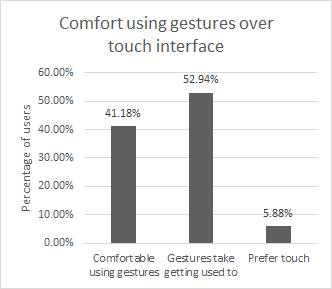
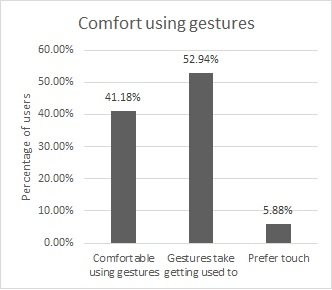
Final Draft tweak
Changed one graph, fixed a couple of typos

diff --git a/project-report-latex/report.tex b/project-report-latex/report.tex
@@ -1,4 +1,4 @@
-%*************************************************************************
+%*************************************************************************
 
 % Note that the a4paper option is mainly intended so that authors in
 % countries using A4 can easily print to A4 and see how their papers will
@@ -448,7 +448,7 @@ The prototype of the device involves the following:
 	\item Android Device
 \end{enumerate}
 
-Users can plug any of their devices into either one outlet or the other. Then, within the android application, they can toggle the power to each of the outlets individually, and become informed via graphical representation if the status of one of the outlets has changed.
+Users can plug any of their devices into either outlet. Then, within the android application, they can toggle the power to each of the outlets individually, and become informed via graphical representation if the status of one of the outlets has changed.
 
 For user interaction, we have decided on a multi-faceted approach. The novelty of the application comes from our gesture recognition system which allows the mobile device to register gestures even while the phone is asleep. This in turn toggles power to the devices.  Beyond this, we have also implemented widgets, which allows users to define their own interface on their home screens. For example, you can split half your home screen between two widgets for easy access to the functionality, even when not inside the app. Furthermore, we allow users to toggle devices in the traditional sense, using buttons inside the application itself. 
 
@@ -461,7 +461,7 @@ To begin with, we discuss the communications method used. To build our prototype
 \end{figure}
 
 
-In this section we give an overview of our Android application prototype, Sparky. We omit low-level implementation details in favour of providing a high-level overview of the interactions. In order to allow the mobile phone to communicate with the Spark Core, we have written a communications library. It is upon this library which the backbone of the application rests. Whenever an intent to toggle is registered, whether by gesture recognition or otherwise, a call is made to the library, which handles request and response to the physical devices. Since we have many UI elements indicating the status of the device (inside the app, multiple widgets), we use the observer pattern to handle notifying all listeners as to the status of the device. For the in-application and widget icons (see Figure \ref{widgetScreenshot}, we use minimalistic designs that represent the devices they are toggling. This removes clutter from and provides an intuitive idea of how to use the application. Figure \ref{workflow} shows the overall basic usage of the application.
+In this section we give an overview of our Android application prototype, Sparky. We omit low-level implementation details in favour of providing a high-level overview of the interactions. In order to allow the mobile phone to communicate with the Spark Core, we have written a communication library. It is upon this library which the backbone of the application rests. Whenever an intent to toggle is registered, whether by gesture recognition or otherwise, a call is made to the library, which handles request and response to the physical devices. Since we have many UI elements indicating the status of the device (inside the app, multiple widgets), we use the observer pattern to handle notifying all listeners as to the status of the device. For the in-application and widget icons (see Figure \ref{widgetScreenshot}, we use minimalistic designs that represent the devices they are toggling. This removes clutter from and provides an intuitive idea of how to use the application. Figure \ref{workflow} shows the overall basic usage of the application.
 
 \begin{figure}[!t]
 \centering
@@ -533,20 +533,20 @@ DTW allows some variance in gesture motion and speed when a person tries to repe
 
 \section{User Experience Tests}
 
-The application was tested by 17 users aged between 21-27, all of which consented for us to use the feedback we obtained from them. The participants of the testing consisted of mainly graduate students with a strong technical background. However, we also included several non-technical users as well.
+The application was tested by 17 users aged between 21-27, who consented for us to use the feedback we obtained from them. The participants of the testing consisted of mainly graduate students with a strong technical background. However, we also included several non-technical users as well.
 
 \subsection{Methodology}
 
 The participants tested the application individually and no more than two participants were in the testing room at a particular point in time. The participants were initially briefed about the overall idea of the application. The team demonstrated how to use the application first and explained how to perform the default gestures. Then the participants were given access to the mobile device on which the application is running. The participants tested the entire functionality of the application including changing the assigned gestures and creating their own custom gestures. There was no set time limit for the participants to use the application. Upon their stating that they have completed testing the application, they were directed to fill in an online feedback form. The questions on the feedback form were structured to get the users' rating on factors such as the intuitiveness of the application, their comfort using the default gestures, and their willingness/interest to adopt such a technology to control home appliances.
 \subsection{User Feedback}
 
-Users submitted their feedback and comments online. Users also provided their consent on the form before submitting their feedback.
+Users submitted their feedback and comments online. They also provided their consent on the form before submitting it.
 
 Some comments from the users are: ``Takes a bit of trial and error to figure out the default gestures. They seem pretty sensitive.'', ``The default gestures are good, but, take some time to adjust to the user's personal way of doing these gestures. So, even before using the default gestures, learning  these from the user might make this a bit easier.'',``Why does every single thing have to be internet connected nowadays. Don't track any usage data!'' etc. 
 
 \subsection{Inference}
 
-The application experience rating on a scale of 10 was found to have a mean of 8.58,  and median of 9. Figure \ref{gesturevstouch} shows the percentage of users who were comfortable using gestures instead of the traditional touch interface to control the application.  Although users rated the default gesture experience at a mean of 7.88 and median of 8, about 70\% of the users needed multiple attempts to get accustomed to the way the default gestures have been defined. This is attested to by the rating we received for the ease of figuring out the default gesture, with a mean of 7.5 and median of 8. Since the data obtained when a gesture is performed is reliant on orientation and the starting position at the time of doing the gesture, users needed practice before being comfortable. Once they learnt the default gestures, the comfort using them greatly increased. Figure \ref{customvsdefault} shows user feedback on their preference between using custom gestures and default gestures. The application's intuitiveness received a mean rating of 8.11 with a median of 8. On being comfortable to use the application in a real life setting, users gave a positive 70.5\% yes. It is important to note that our numbers may have been accidentally inflated due to the fact that the primary portion of our testers are technically-inclined people aged between 21-27.
+The application experience rating on a scale of 10 was given a mean of 8.58,  and median of 9 by the users. Figure \ref{gesturevstouch} shows the percentage of users who were comfortable using gestures instead of the traditional touch interface to control the application.  Although users rated the default gesture experience at a mean of 7.88 and median of 8, about 70\% of the users needed multiple attempts to get accustomed to the way the default gestures have been defined. This is attested to by the rating we received for the ease of figuring out the default gesture, with a mean of 7.5 and median of 8. Since the data obtained when a gesture is performed is reliant on orientation and the starting position at the time of doing the gesture, users needed practice before being comfortable. Once they learnt the default gestures, the comfort using them greatly increased. Figure \ref{customvsdefault} shows user feedback on their preference between using custom gestures and default gestures. The application's intuitiveness received a mean rating of 8.11 with a median of 8. On being comfortable to use the application in a real life setting, users gave a positive 70.5\% yes. It is important to note that our numbers may have been accidentally inflated due to the fact that the primary portion of our testers were technically-inclined people aged between 21-27.
 	
 
 \begin{figure}[!t]
@@ -569,12 +569,12 @@ We aim to improve our application in the future by providing an interface for mu
 
 Another direction for future work is to improve the accuracy of the gesture recognition by incorporating the three-axis gyroscope. We also want to have an option for users to utilize the magnetometer to control multiple devices with the same gesture but perform the gesture in a particular direction. This would allow a user to point their phone at a particular device, perform a generic gesture, and have that specific device toggled.
 
-DTW is an effective algorithm when the gesture is a simple motion, as it allows some small variation in speed and motion. However, our user feedback results show that the default gestures are minimally comfortable because the algorithm generally performs poorly when the moving rate and motion have a large variation, as is common among different users. Furthermore, with more complex gestures DTW does not work effectively. One alternative is to do gesture recognition via Hidden Markov Models\cite{HMM}. Using this, we may realize some accuracy gains, because it uses knowledge of probability and statistics to account for larger variation of speed and motion, while still retaining the ability to accurately recognize gestures. 
+DTW is an effective algorithm when the gesture is a simple motion, as it allows some small variation in speed and motion. However, our user feedback results show that the default gestures are minimally comfortable because the algorithm generally performs poorly when the moving rate and motion has a large variation, as is common among different users. Furthermore, with more complex gestures DTW does not work effectively. One alternative is to do gesture recognition via Hidden Markov Models\cite{HMM}. Using this, we may realize some accuracy gains, because it uses knowledge of probability and statistics to account for larger variation of speed and motion, while still retaining the ability to accurately recognize gestures. 
 
 We would also like to test the application among a wider audience to observe how much this technology is applicable to the greater populace.
 \section{Conclusion}
 
-In this paper and its accompanying mobile application, we have shown that not only is it possible to replace traditional home automation application usage patterns with gestures, but also that it is generally effective. The feedback we’ve received gives a few important insights that point towards future work. Clearly, the level of accuracy for the gesture recognition, while acceptable, has a long way to go in order to be adopted by any sizeable segment of the home automation market. Given the current state of the smart home and the huge recent advancements in the world of IoT, we feel that gesture-based recognition points the way towards the future of home interactions. We also feel that our application demonstrates that it is very feasible, once accuracy levels become high enough. 
+In this paper and its accompanying mobile application, we have shown that not only is it possible to replace traditional home automation application usage patterns with gestures, but also that it is generally effective. The feedback we have received gives a few important insights that point towards future work. Clearly, the level of accuracy for the gesture recognition, while acceptable, has a long way to go in order to be adopted by any sizeable segment of the home automation market. Given the current state of the smart home and the huge recent advancements in the world of IoT, we feel that gesture-based recognition points the way towards the future of home interactions. We also feel that our application demonstrates that it is very feasible, once accuracy levels become high enough. 
 
 
 \raggedright
